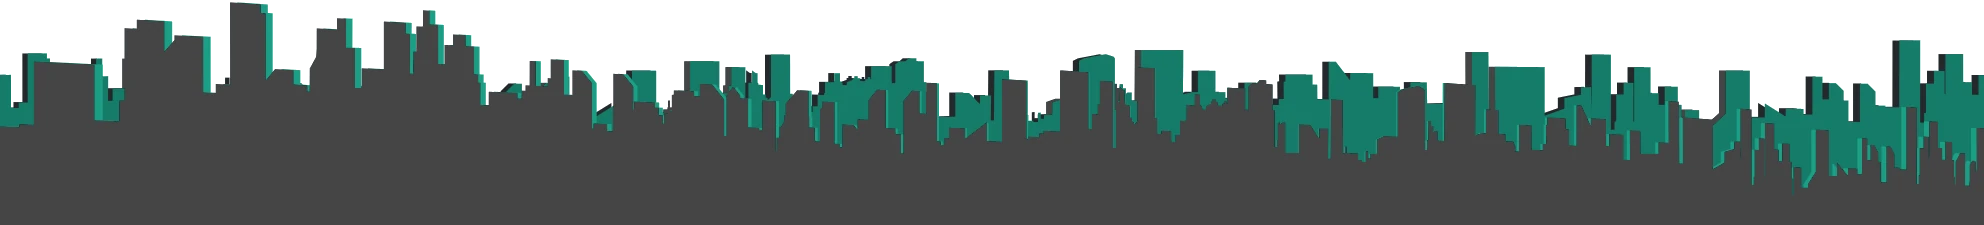
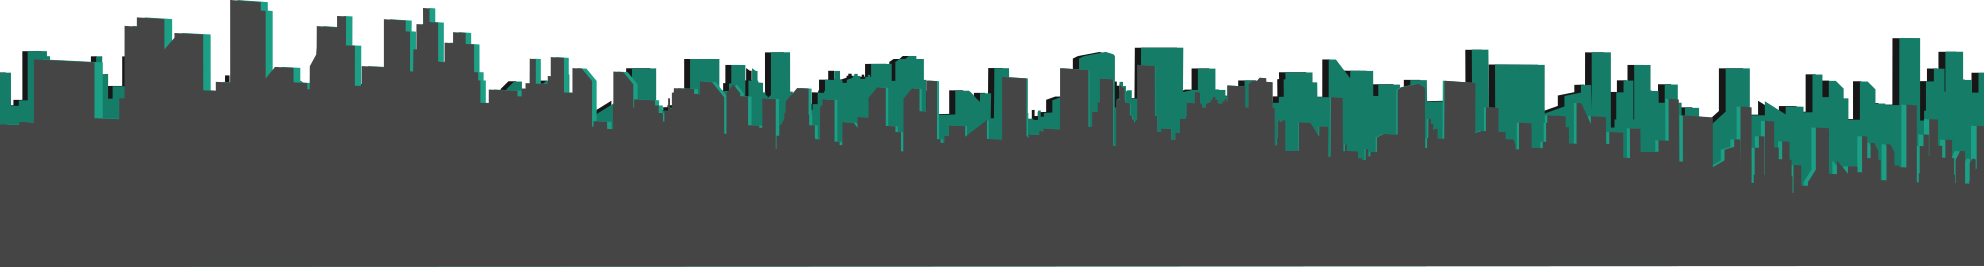
add dark mode

diff --git a/common/common.scss b/common/common.scss
@@ -424,7 +424,10 @@ summary.select-kit-header.single-select-header.dropdown-select-box-header {
     }
 }
 
-.title-wrapper a:hover, .title-wrapper .category-name:hover {
+.title-wrapper a:hover,
+.title-wrapper .category-name:hover,
+.topic-list-data .raw-topic-link:hover,
+.topic-list-data .discourse-tag:hover {
         text-decoration: underline;
         text-underline-offset: 2px;
     }
@@ -436,10 +439,17 @@ summary.select-kit-header.single-select-header.dropdown-select-box-header {
 }
 
 .custom-footer-content {
-    background-image: url($footer-bg);
     background-position: top;
     background-repeat: repeat-x;
     height: 166px;
+}
+
+.dark-theme .custom-footer-content {
+    background-image: url($footer-bg-dark);
+}
+
+.light-theme .custom-footer-content {
+    background-image: url($footer-bg);
 }
 
 .search-banner {
@@ -469,7 +479,7 @@ summary.select-kit-header.single-select-header.dropdown-select-box-header {
     .custom-search-banner-wrap h1, .custom-search-banner-wrap p {
         text-transform: uppercase;
         font-weight: bold;
-        color: var(--tertiary-hover);
+        color: #2e7d32;
     }
 }
 
@@ -486,21 +496,16 @@ summary.select-kit-header.single-select-header.dropdown-select-box-header {
     }
 }
 
-blockquote {
-    background: #e8e8d5;
-}
-
 .svg-icon.solved {
     color:#18e2b3;
 }
 
-.top-tabs .badge-notification {
-    background-color: #e91e63 !important;
-}
-
+.top-tabs .badge-notification, 
 .topic-list-body .unseen-topic .badge-notification.new-topic:before,
-.current-user .badge-notification {
-  background-color: #e91e63 !important;
+.current-user .badge-notification,
+.badge-notification.unread-posts {
+    background-color: #ec407a !important;
+    font-weight: bold;
 }
 
 .user-main .about.collapsed-info .details,
@@ -524,19 +529,12 @@ blockquote {
     color: var(--primary-medium) !important;
 }
 
-.hljs {
+.light-theme .hljs {
     background: #f9fbe7;
 }
 
-button#create-topic {
-  position: fixed;
-  bottom: 2em;
-  right: 2em;
-  z-index: 9999;
-  background: #17e0b2;
-  border-color: #17e0b2;
-  color: var(--tertiary-hover);
-  box-shadow: rgba(99,99,99,.2) 0px 2px 8px 0px;
+.light-theme blockquote {
+    background: #e8e8d5;
 }
 
 img[alt*="poop"],
@@ -544,4 +542,16 @@ img[alt*="clown"],
 img[alt*="fist"],
 img[alt*="facepunch"] {
     display: none !important;
+}
+
+button#create-topic {
+    position: fixed;
+    bottom: 2em;
+    right: 2em;
+    z-index: 9999;
+    background: linear-gradient(128deg, rgba(24,226,179,1) 60%, rgba(0,212,255,1) 100%);
+    border-color: #17e0b2;
+    color: #2e7d32;
+    box-shadow: rgba(99,99,99,.2) 0px 2px 8px 0px;
+    font-weight: bold;
 }

diff --git a/common/head_tag.html b/common/head_tag.html
@@ -1,0 +1,15 @@
+ <script>
+function setTheme() {
+    let root = document.querySelector(':root')
+    let styles = getComputedStyle(root)
+    let color = styles.getPropertyValue('--secondary')
+    let dark = "#2d2d2d"
+    let body = document.body
+    if (dark == color) {
+        body.classList.add("dark-theme")
+    } else {
+        body.classList.add("light-theme")
+    }
+}
+setTheme()
+</script> )
